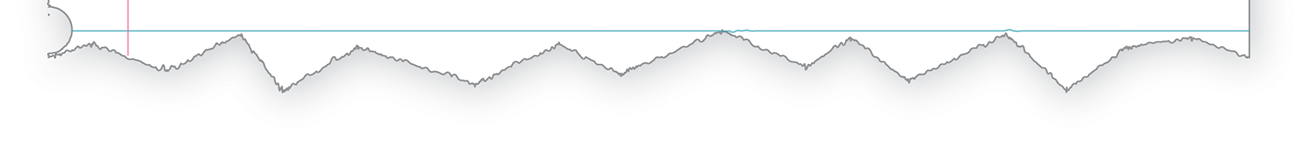
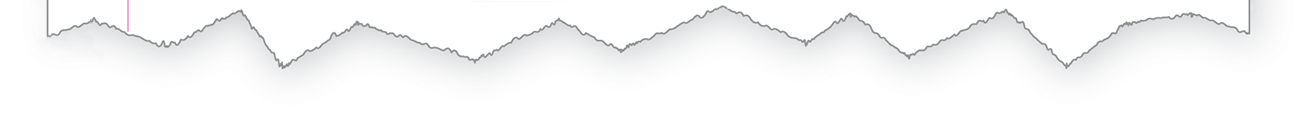
made adjsutment to size of scratchpad image

Changed region(s): [[0.0307, 0.0244, 0.9816, 0.6341], [0.9509, 0.3659, 0.9816, 0.3902]]

diff --git a/tools/oneoffs/oneoff.css b/tools/oneoffs/oneoff.css
@@ -76,10 +76,11 @@ div.sidebar.scratchpad:after {
   background-repeat: no-repeat; 
   background-size: 4in auto;
   display: block;
-  height: 0.451in;
+  height: 0.377in;
   margin-top: 0;
   width: 4in;
   margin-left: -25px;
+  margin-top: 3pt;
 }
 
 
@@ -91,7 +92,7 @@ div.sidebar.scratchpad ul  {
 }
 
 div.sidebar.scratchpad ul li  {
-  margin-bottom: 3pt;
+  line-height: 0.15in;
 }
 
 div.sidebar.scratchpad ul li p {  font-family: "ORAHand-Medium";
